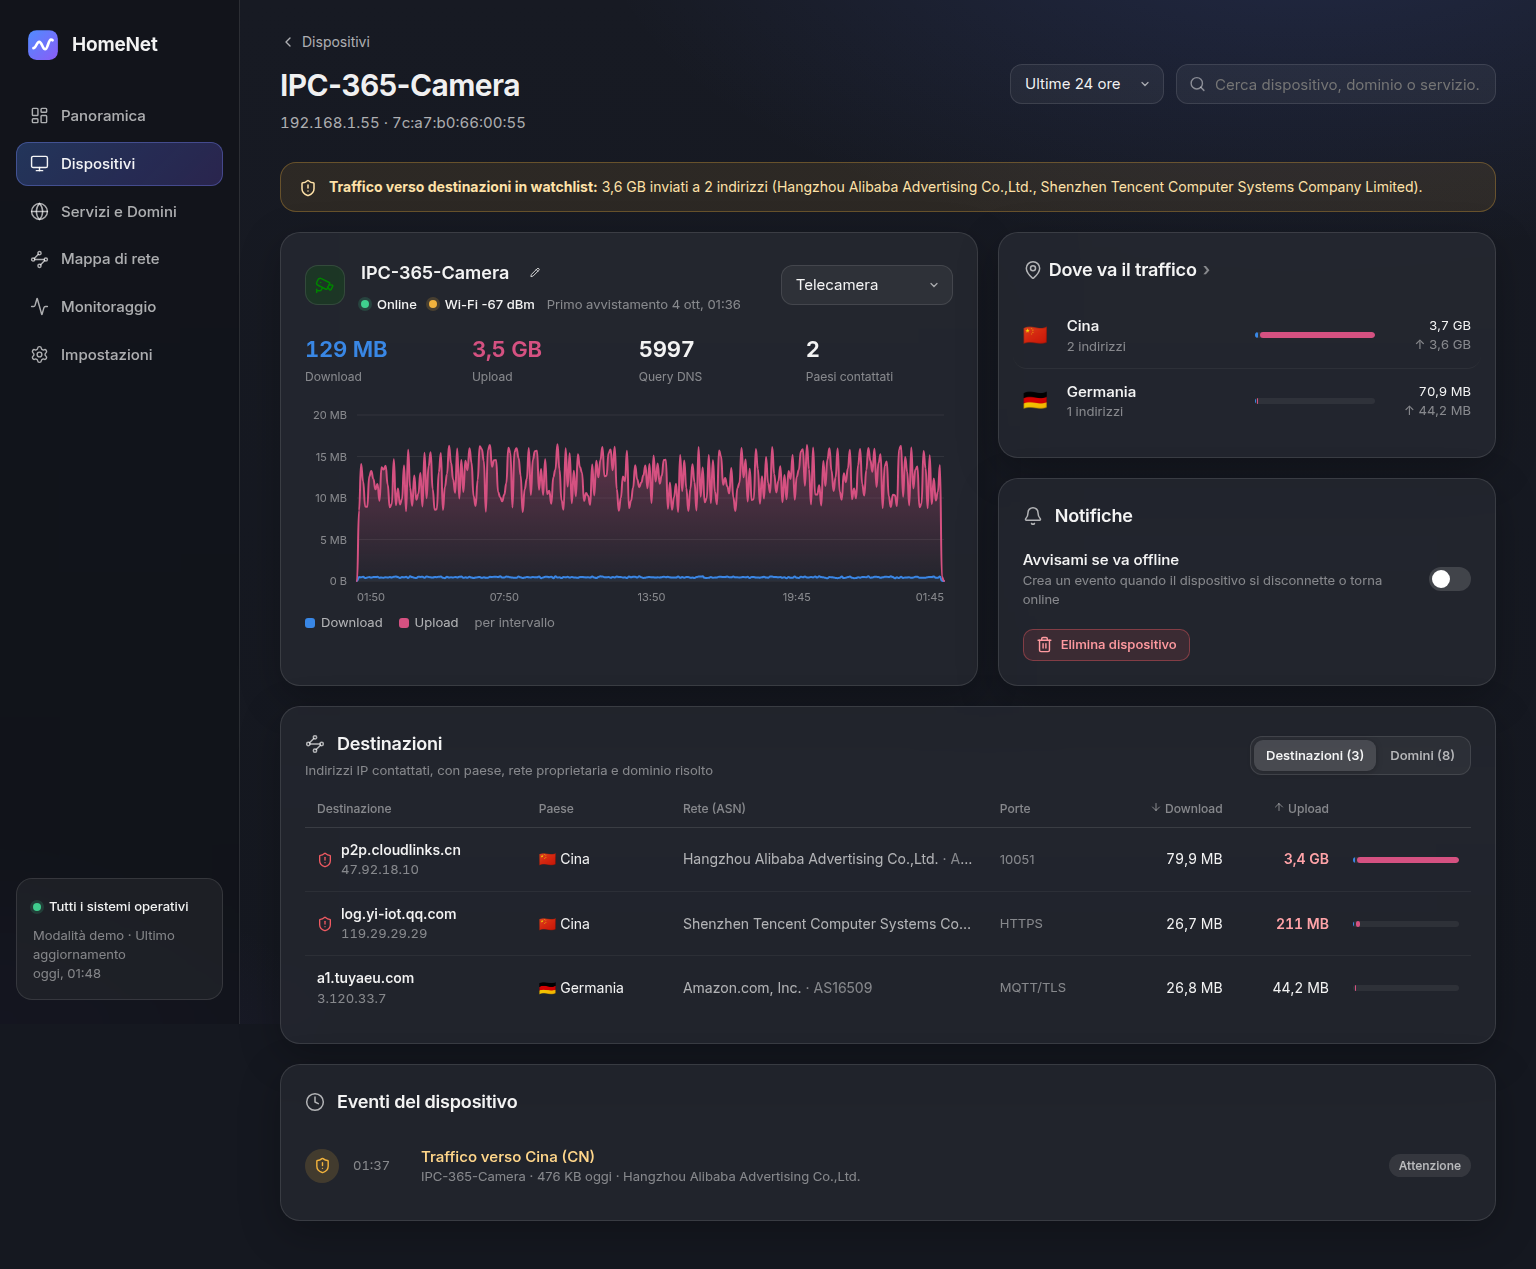
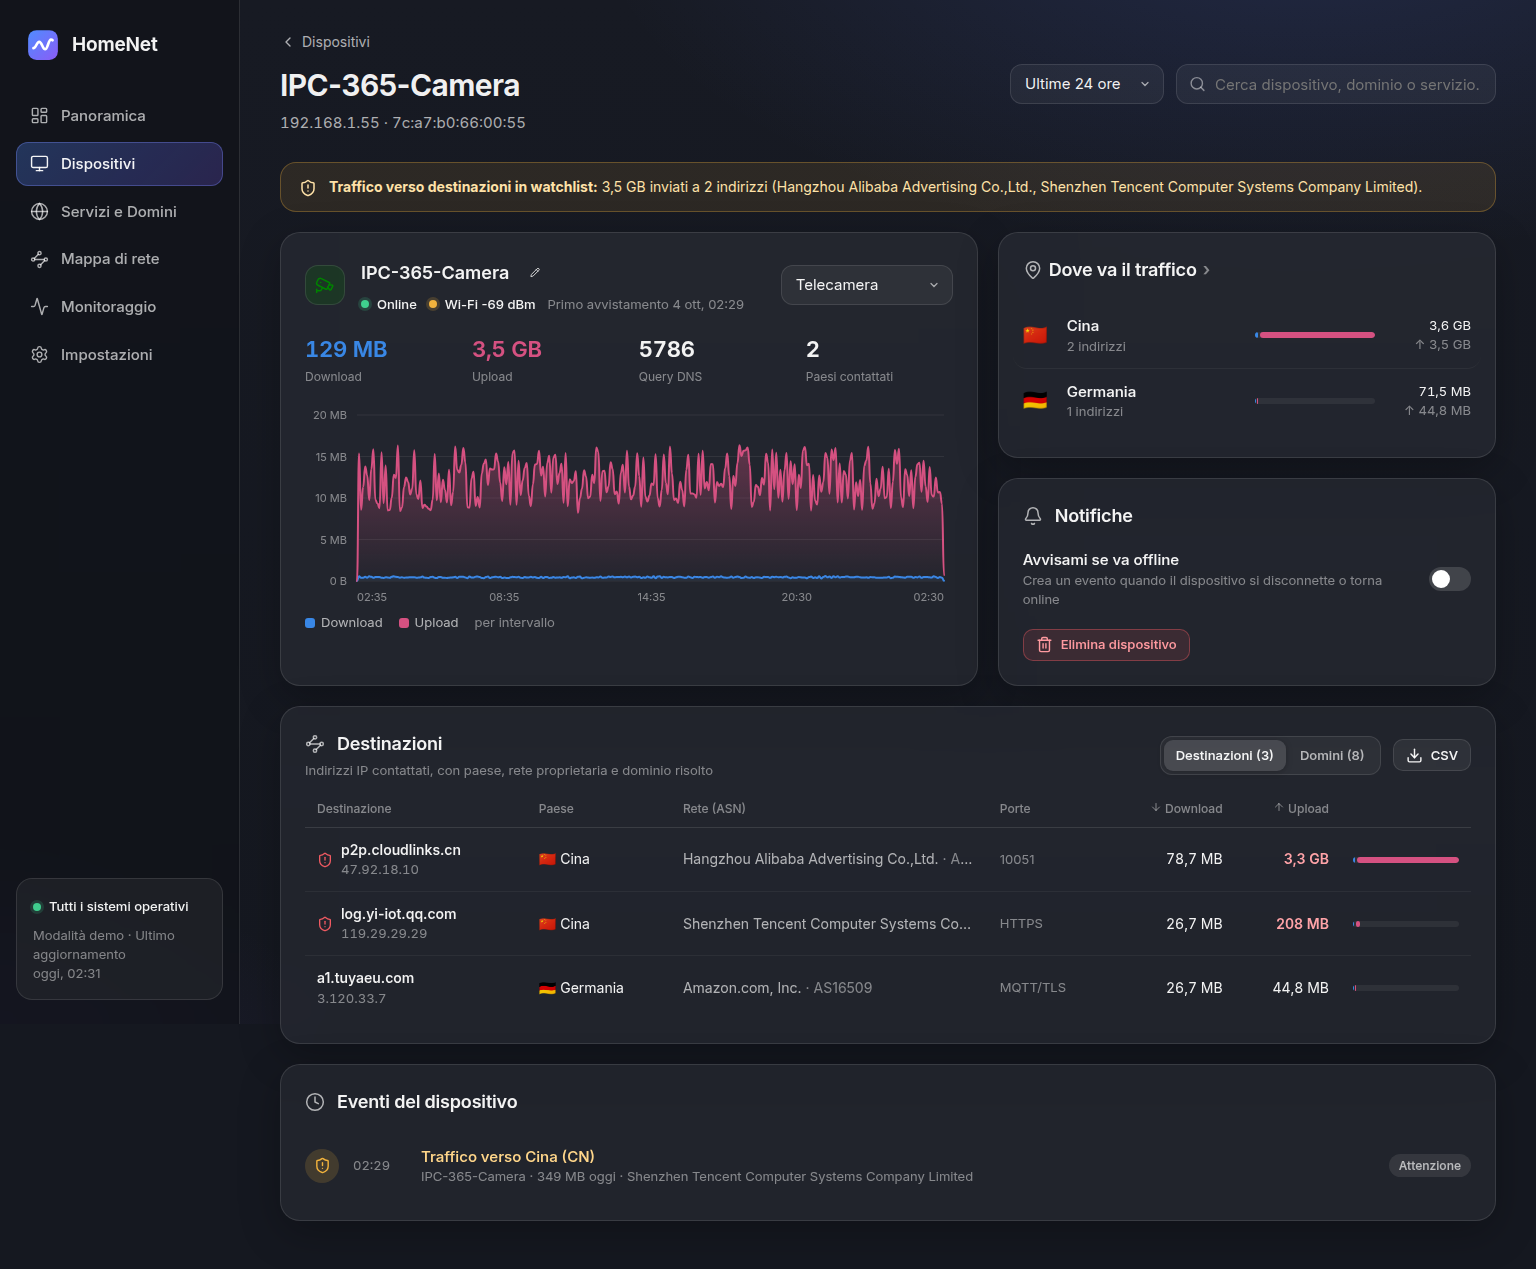
Refresh screenshots; Italian number format in server-generated alerts

diff --git a/server/src/events.ts b/server/src/events.ts
@@ -28,5 +28,5 @@ export function fmtBytes(n: number) {
   const u = ['B', 'KB', 'MB', 'GB', 'TB'];
   let i = 0;
   while (n >= 1000 && i < u.length - 1) { n /= 1000; i++; }
-  return `${n.toFixed(n >= 100 || i === 0 ? 0 : 1)} ${u[i]}`;
+  return `${n.toLocaleString('it-IT', { maximumFractionDigits: n >= 100 || i === 0 ? 0 : 1 })} ${u[i]}`;
 }

diff --git a/ROADBLOCKS.md b/ROADBLOCKS.md
@@ -41,4 +41,5 @@ Everything below is either outward-facing (needs your accounts), needs your real
 - The full HomeNet container running against the OpenWrt container: all router collectors green.
 - AdGuard Home v0.107.57 and v1.0.0-b.1 containers: status, query log, paging, blocked/answer parsing, auth errors.
 - `sms_tool` JSON format checked against its source; multipart SMS merge.
+- Events log page (filters, pagination) and CSV export of destinations.
 - 14 unit/integration tests (`npm test`), load benchmark (`npm run bench`), Docker image build + run as uid 1000, desktop + 390 px mobile layouts.
